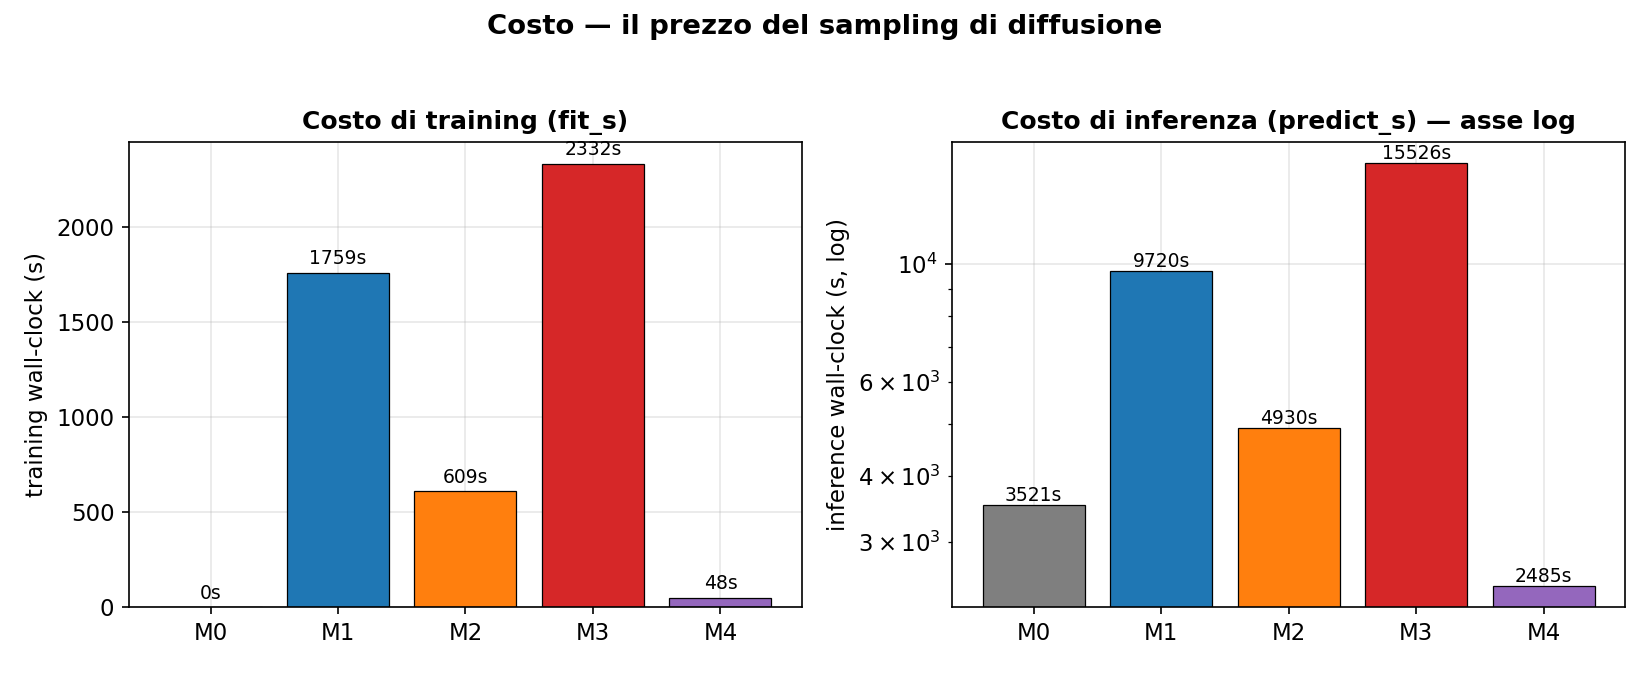
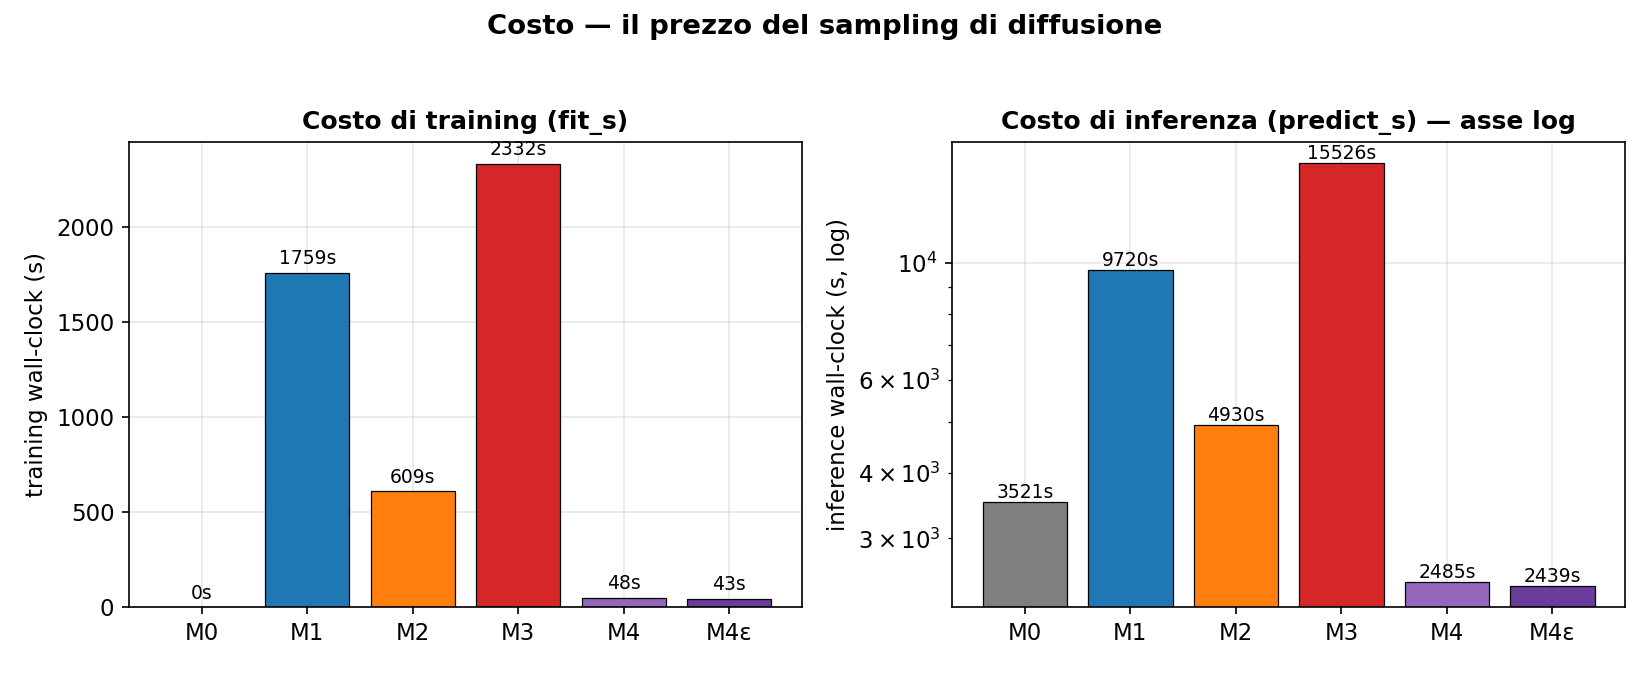
Bank M4ε eps ablation: ε over-disperses (cov≈1), mirror of x0 collapse
The eps-prediction ablation did NOT recalibrate TimeDiff as hypothesized — it
flipped it to the opposite failure. x0 under-disperses (cov 0.003/0.008, bands
≈0); ε over-disperses (cov 0.998/1.000, width50 7686, width90 11359, the widest
on the ladder), degrading the point too (MASE 4.02, CRPS 1376, MAE 1045). The
RMSE/MAE ratio stays uniform (ε 8.97 ≈ x0 8.85 ≈ naive 8.67), so it is uniform
over-dispersion, not a few exploded windows — a real effect, not a sampler bug.

Lesson: no naive parameterization calibrates a non-autoregressive block; x0 is
the lesser evil (the TimeDiff paper's choice); proper calibration needs more
(learned σ_θ or conformal); the best-calibrated model on the ladder is DeepAR,
not a diffusion.

- Bank electricity,timediff_eps row in results/registry.csv
- Regenerate comparison table (M0–M4 incl. M4ε) and the 6 fig_cmp figures
- Fix calibration-figure title to name both extremes (over-confident / under-confident)
- Correct the narrative arc across deck + README: "ε calibrates" -> "ε flips to
  the opposite excess" (SLIDE_TEMPLATE incl. B7 promoted to a full slide-story,
  QA_ORALE incl. new Q34-ter, RESULTS_PLACEHOLDERS, SPEAKER_SCRIPT, FIGURE_PLAN)
- Add P1.11 diagnostic cell to the Colab notebook (visualise the eps over-dispersion)

diff --git a/experiments/plot_presentation.py b/experiments/plot_presentation.py
@@ -222,7 +222,7 @@ def fig_calibration(df: pd.DataFrame, is_ph: bool) -> None:
     ax.set_xticks([0.5, 0.9])
     ax.set_xlabel("copertura nominale (target)")
     ax.set_ylabel("copertura empirica (ottenuta)")
-    ax.set_title("Calibrazione — sotto la diagonale = troppo sicuro")
+    ax.set_title("Calibrazione — sotto la diagonale = troppo sicuro · sopra = troppo incerto")
     ax.legend(loc="lower right", fontsize=8.5, framealpha=0.9)
     ax.set_aspect("equal", adjustable="box")
     _ph_banner(fig, is_ph)

diff --git a/docs/presentation/SLIDE_TEMPLATE_ELECTRICITY_IT.md b/docs/presentation/SLIDE_TEMPLATE_ELECTRICITY_IT.md
@@ -5,7 +5,8 @@
 > [`RESULTS_PLACEHOLDERS_ELECTRICITY.md`](RESULTS_PLACEHOLDERS_ELECTRICITY.md)
 > (fonte di verità). M0–M4 sono **numeri reali** (da `results/registry.csv`).
 > M4 TimeDiff entra nel deck *foldato* nelle slide 5/8/9/10 + backup **B7**
-> (deep-dive collasso x0 → ablazione ε); promuovibile a slide piena quando arriva M4ε.
+> (deep-dive: collasso x0 ↔ esplosione ε, i due estremi della parametrizzazione).
+> M4ε è bancato: B7 è ora una **slide-storia completa** (numeri reali, non più foreshadow).
 >
 > **Legenda "chi parla":** A = problema/dataset/PML · B = modelli/metodo ·
 > C = risultati/interpretazione/limiti. (~2.5–3 min a testa.)
@@ -235,8 +236,8 @@
     puntiforme. Lo approfondiamo in backup (B7) con l'ablazione ε."*
   - Sotto-messaggio onesto: su Electricity **il baseline stagionale è fortissimo**;
     ARIMA per-canale è fragile su 321 serie.
-- **Figura:** `fig_cmp_crps.png` (barre CRPS, M3/M4 reali) +
-  `fig_cmp_mase.png` come backup.
+- **Figura:** `fig_cmp_crps.png` (barre CRPS, M3/M4 reali; la barra **M4ε** è l'ablazione
+  ε — la più alta = la peggiore, dettaglio in B7) + `fig_cmp_mase.png` come backup.
 - **Speaker notes (C, ~70s):** "Ecco i numeri su Electricity. La prima cosa che salta
   all'occhio: il seasonal-naive ha CRPS 160 e MASE uno — è la *barra da battere*.
   ARIMA, montato un modello per canale su 321 serie, è fragile e va malissimo. DeepAR
@@ -268,7 +269,8 @@
   - Frase chiave: *"Non basta vincere sul CRPS: bisogna vincere abbastanza da
     giustificare il costo di sampling — e la velocità da sola non vale se l'incertezza
     è rotta."*
-- **Figura:** `fig_cmp_quality_cost.png` (scatter; M3 e M4 punti reali).
+- **Figura:** `fig_cmp_quality_cost.png` (scatter; M3 e M4 punti reali; **M4ε** in alto a
+  sinistra = il più economico ma il peggiore: la prova plastica che "cheap ≠ good").
 - **Speaker notes (C, ~70s):** "Questo è il grafico che riassume la nostra tesi.
   Sull'asse orizzontale il costo di campionamento, sul verticale la qualità
   probabilistica: l'ideale è l'angolo in basso a sinistra, economico e accurato. Il
@@ -301,13 +303,15 @@
   - **Esito M4 — il design conta:** *"TimeDiff, non-autoregressivo, è ~6× più rapido in
     sampling di TimeGrad e dà la MAE più bassa tra i deep, ma in x0-prediction la sua
     distribuzione collassa (cov ≈ 0, CRPS ≈ MAE). Non è un bug del sampler: è la
-    parametrizzazione del target. L'ablazione ε (M4ε) testa se predire il rumore
-    ricalibra."* Lezione: **la scelta x0 vs ε cambia la calibrazione a parità di tutto.**
+    parametrizzazione del target. L'ablazione ε (M4ε) lo conferma per assurdo: predire il
+    rumore **non** ricalibra, ribalta nell'estremo opposto (cov ≈ 1, bande enormi, MASE 4.0)."*
+    Lezione: **x0 ed ε sono i due estremi (sotto/sovra-confidente); la calibrazione vera
+    non è uno switch di parametrizzazione.**
   - **Limiti:** split non-benchmark (E0); ARIMA per-canale poco competitivo; sampling
     di diffusione costoso (M3); un solo seed; niente tuning esteso degli iperparametri.
-  - **Lavori futuri:** ablazione **ε-prediction** (M4ε, in corso) per ricalibrare
-    TimeDiff; split `electricity_nips` per confronto con la letteratura; CSDI;
-    riduzione passi di sampling (DDIM-like); più seed.
+  - **Lavori futuri:** calibrare davvero TimeDiff oltre lo switch x0/ε (varianza appresa
+    σ_θ, o calibrazione post-hoc tipo conformal); split `electricity_nips` per confronto
+    con la letteratura; CSDI; riduzione passi di sampling (DDIM-like); più seed.
 - **Figura:** richiamo a `fig_cmp_quality_cost.png` (la stessa) o nessuna.
 - **Speaker notes (C, ~55s):** "In sintesi: il nostro messaggio non è che la
   diffusione vince, ma che esiste un compromesso tra espressività, calibrazione e
@@ -317,7 +321,8 @@
   diffusion model con design opposto: TimeDiff, non-autoregressivo, ribalta il costo —
   sei volte più rapido — ma in questa parametrizzazione rompe la calibrazione. È la
   prova che a contare è il *design*, non solo la taglia; e la nostra ablazione sul modo
-  di predire — il segnale pulito contro il rumore — serve proprio a ricalibrarlo. Siamo
+  di predire — segnale pulito contro rumore — mostra che nessuno dei due estremi è
+  calibrato: x0 azzera l'incertezza, ε la gonfia. Siamo
   onesti sui limiti: split non-benchmark, ARIMA poco competitivo, sampling costoso, un
   solo seed. Lavori futuri: l'ablazione ε, lo split standard, CSDI. Grazie."
 - **Chi parla:** C
@@ -347,18 +352,23 @@
 - **B6 — DeepAR senza time-features (M2 ablation):** se presente in registry
   (`deepar_notf`), mostra l'effetto delle covariate calendario. *Uso:* domanda su
   ablation. 🟡 solo se la riga esiste.
-- **B7 — M4 TimeDiff: il collasso di varianza e l'ablazione ε:** la slide-storia del
-  doppio volto di TimeDiff. *Contenuto:* (1) cos'è il non-AR (denoisa l'intero blocco
-  τ×D in una catena, da cui la velocità); (2) il collasso — cov 0.003/0.008, width ≈ 0,
-  **CRPS ≈ MAE** = massa puntiforme; (3) **perché**: in x0-prediction la rete predice
-  un x0 quasi costante appoggiandosi al contesto/`x_ar` e ignora il rumore `x_t`;
-  l'unica varianza residua è `1−ᾱ_0 ≈ 6·10⁻⁴` → std ≈ 0 (la *future-mixup* aggrava);
-  (4) **la cura**: ε-prediction (DDPM, Ho 2020) controlla esplicitamente la dispersione
-  iniettata → M4ε dovrebbe ricalibrare. *Figure:* `fig_cmp_calibration.png` (M4 piatto
-  sull'asse) + `fig_cmp_intervals.png` (width 2.8/6.6). *Uso:* "perché TimeDiff ha
-  coverage zero?" / "qual è la differenza tra i due diffusion model?".
-  ✅ x0 reale; 🟡 riga M4ε in arrivo (numeri al posto del foreshadow). Dettaglio
-  numerico in `RESULTS_PLACEHOLDERS_ELECTRICITY.md` §5.
+- **B7 — M4 TimeDiff: i due volti della parametrizzazione (x0 vs ε)** ⭐ slide-storia:
+  *Contenuto:* (1) cos'è il non-AR (denoisa l'intero blocco τ×D in una catena, da cui la
+  velocità); (2) **x0 collassa** — cov 0.003/0.008, width ≈ 0, **CRPS ≈ MAE** = massa
+  puntiforme; **perché**: in x0-prediction la rete predice un x0 quasi costante
+  appoggiandosi al contesto/`x_ar` e ignora il rumore `x_t`; l'unica varianza residua è
+  `1−ᾱ_0 ≈ 6·10⁻⁴` → std ≈ 0 (la *future-mixup* aggrava); (3) **la presunta cura, ε,
+  ribalta**: ε-prediction (DDPM, Ho 2020) lega la dispersione allo schedule → ci
+  aspettavamo la ricalibrazione, invece M4ε **sovra-disperde** (cov50 **0.998**, cov90
+  **1.000**, width50 **7 686**, width90 **11 359** — le bande più larghe della scala — e
+  MASE **4.02**); (4) **la lezione**: x0 ed ε sono i due estremi (sotto/sovra-confidente),
+  x0 è il male minore (la scelta del paper TimeDiff), e la calibrazione vera richiede di
+  più (σ_θ appresa, o conformal). Bonus: il meglio calibrato della scala è **DeepAR**, non
+  una diffusione. *Figure:* `fig_cmp_calibration.png` (i due viola agli estremi: M4 sul
+  pavimento, M4ε sul soffitto) + `fig_cmp_intervals.png` (width 2.8/6.6 vs 7 686/11 359).
+  *Uso:* "perché TimeDiff ha coverage zero?" / "l'ablazione ε ha funzionato?" / "qual è la
+  differenza tra i due diffusion model?". ✅ M4 x0 **e** M4ε reali. Dettaglio numerico in
+  `RESULTS_PLACEHOLDERS_ELECTRICITY.md` §5.
 
 ---
 
@@ -377,7 +387,7 @@
 | 9 | `fig_cmp_quality_cost.png` | ✅ M3/M4 reali |
 | 10 | richiamo S9 | ✅ |
 | B1 | `fig_cmp_calibration.png`, `fig_cmp_intervals.png` | ✅ M3/M4 reali |
-| B7 | `fig_cmp_calibration.png`, `fig_cmp_intervals.png` | ✅ M4 x0 · 🟡 M4ε |
+| B7 | `fig_cmp_calibration.png`, `fig_cmp_intervals.png` | ✅ M4 x0 **e** M4ε reali |
 
 > Dettaglio completo delle figure in
 > [`FIGURE_PLAN_ELECTRICITY_IT.md`](FIGURE_PLAN_ELECTRICITY_IT.md).

diff --git a/README.md b/README.md
@@ -39,7 +39,7 @@ Our thesis is deliberately non-triumphalist: diffusion buys *richer, better-cali
 | **Exchange** (D=8, sandbox) | ✅ | ✅ | ✅ | ✅ | — |
 | **Electricity** (D=321, primary) | ✅ | ✅ | ✅ | ✅ | ✅ |
 
-**Headline (Electricity, CRPS ↓ — the probabilistic-quality metric):** the seasonal-naive bar is **160.5**, and *no trained model beats it* — DeepAR 253.7, **TimeGrad 241.6** (better than DeepAR, but not the naive), **TimeDiff 287.3**, ARIMA 867.5. This is the project's honest, non-triumphalist finding: on a strongly seasonal signal a simple baseline is a serious opponent, and diffusion's richer uncertainty does not pay for its sampling cost *here*. The two diffusion models make the point from opposite ends: **M3 TimeGrad** (autoregressive) is the better-calibrated but slow one (~4 h to sample), while **M4 TimeDiff** (non-autoregressive) samples in ~41 min and has the lowest point error of any deep model, yet in its x0-prediction form the predictive **collapses** (coverage ≈ 0, CRPS ≈ MAE) — an ε-prediction ablation to recalibrate it is in progress.
+**Headline (Electricity, CRPS ↓ — the probabilistic-quality metric):** the seasonal-naive bar is **160.5**, and *no trained model beats it* — DeepAR 253.7, **TimeGrad 241.6** (better than DeepAR, but not the naive), **TimeDiff 287.3**, ARIMA 867.5. This is the project's honest, non-triumphalist finding: on a strongly seasonal signal a simple baseline is a serious opponent, and diffusion's richer uncertainty does not pay for its sampling cost *here*. The two diffusion models make the point from opposite ends: **M3 TimeGrad** (autoregressive) is the better-calibrated but slow one (~4 h to sample), while **M4 TimeDiff** (non-autoregressive) samples in ~41 min and has the lowest point error of any deep model, yet in its x0-prediction form the predictive **collapses** (coverage ≈ 0, CRPS ≈ MAE). Our ε-prediction ablation does **not** recalibrate it — it flips TimeDiff to the opposite failure (coverage ≈ 1, intervals ~40× wider, MASE 4.0): x0 under-disperses, ε over-disperses, and proper calibration needs more than a parameterization swap. The best-calibrated model on the whole ladder is **DeepAR**, not a diffusion.
 
 **Experiments:** `E1` main comparison ✅ · `E6` economic value ✅ · `E2` horizon sweep / `E3` denoising-steps 🟡 in progress · `E0` reproduce-gate, `E4` regime-shift ⏳ planned.
 
@@ -160,6 +160,6 @@ Released under the [MIT License](LICENSE). If your university's coursework polic
 
 **Idea.** Inquadriamo il forecasting come l'apprendimento della distribuzione generativa condizionata `p(futuro | passato)` e la realizziamo con un diffusion model condizionato, addestrato con lo stesso obiettivo (ELBO / predizione del rumore) che il corso ricava nell'ultimo capitolo. Lo confrontiamo con una baseline ingenua, un modello classico (ARIMA/ETS) e un modello probabilistico di deep learning (DeepAR), misurando **quattro** cose: **accuratezza puntuale** (MAE/RMSE/MASE), **qualità probabilistica** (CRPS, copertura, calibrazione), **costo** e **valore economico** — il denaro risparmiato quando il forecast di ciascun modello programma una batteria contro un prezzo a fasce orarie (esperimento E6, un modulo *sopra i forecast già prodotti*, senza addestramento aggiuntivo).
 
-**Stato:** 🟢 pipeline completa, risultati in cassaforte. La scala gira su entrambi i dataset (M0→M3 su ciascuno; il quinto gradino, **M4 TimeDiff**, sul dataset principale Electricity); tabelle e figure di confronto sono **generate dalla registry** (mai scritte a mano); il pilastro del valore economico (E6) è costruito. **Risultato chiave (Electricity, CRPS):** la barra del seasonal-naive è **160.5** e **nessun modello addestrato la batte** — DeepAR 253.7, **TimeGrad 241.6** (meglio di DeepAR, non del naive), **TimeDiff 287.3**, ARIMA 867.5. Finding onesto e non-trionfalista: su un segnale fortemente stagionale una baseline semplice è un avversario serio. I due diffusion model lo mostrano da estremi opposti: **M3 TimeGrad** (autoregressivo) è il più calibrato ma lento (~4h di sampling), mentre **M4 TimeDiff** (non-autoregressivo) campiona in ~41 min ed ha l'errore puntuale più basso tra i deep, ma nella forma x0 la predittiva **collassa** (copertura ≈ 0, CRPS ≈ MAE) — un'ablazione ε per ricalibrarla è in corso. Il deck di presentazione (8 minuti, FASE B) è in [`docs/presentation/`](docs/presentation/); il piano completo in [`docs/IMPLEMENTATION_PLAN_IT.md`](docs/IMPLEMENTATION_PLAN_IT.md).
+**Stato:** 🟢 pipeline completa, risultati in cassaforte. La scala gira su entrambi i dataset (M0→M3 su ciascuno; il quinto gradino, **M4 TimeDiff**, sul dataset principale Electricity); tabelle e figure di confronto sono **generate dalla registry** (mai scritte a mano); il pilastro del valore economico (E6) è costruito. **Risultato chiave (Electricity, CRPS):** la barra del seasonal-naive è **160.5** e **nessun modello addestrato la batte** — DeepAR 253.7, **TimeGrad 241.6** (meglio di DeepAR, non del naive), **TimeDiff 287.3**, ARIMA 867.5. Finding onesto e non-trionfalista: su un segnale fortemente stagionale una baseline semplice è un avversario serio. I due diffusion model lo mostrano da estremi opposti: **M3 TimeGrad** (autoregressivo) è il più calibrato ma lento (~4h di sampling), mentre **M4 TimeDiff** (non-autoregressivo) campiona in ~41 min ed ha l'errore puntuale più basso tra i deep, ma nella forma x0 la predittiva **collassa** (copertura ≈ 0, CRPS ≈ MAE). La nostra ablazione ε **non** la ricalibra: ribalta TimeDiff nell'estremo opposto (copertura ≈ 1, bande ~40× più larghe, MASE 4.0) — x0 sotto-disperde, ε sovra-disperde, e calibrare richiede più di uno switch di parametrizzazione. Il modello meglio calibrato dell'intera scala è **DeepAR**, non una diffusione. Il deck di presentazione (8 minuti, FASE B) è in [`docs/presentation/`](docs/presentation/); il piano completo in [`docs/IMPLEMENTATION_PLAN_IT.md`](docs/IMPLEMENTATION_PLAN_IT.md).
 
 **Per i colleghi:** leggete prima il piano (Parti 1–3), poi la parte del vostro ruolo (A / B / C, vedi tabella sopra). La regola d'oro: far girare tutta la pipeline sul piccolo dataset **Exchange** prima di salire di scala.

diff --git a/docs/presentation/QA_ORALE_ELECTRICITY_IT.md b/docs/presentation/QA_ORALE_ELECTRICITY_IT.md
@@ -69,8 +69,10 @@ TimeDiff invece predice il **segnale pulito** (x0-prediction), ed è proprio que
 che fa collassare la sua incertezza (vedi Q16-bis e Q34-bis). Predire ε controlla
 *esplicitamente* la dispersione iniettata a ogni passo; predire x0 la lascia residuale, e
 se la rete impara a predire un x0 quasi costante quella dispersione svanisce. La nostra
-ablazione **M4ε** verifica proprio questo: stesso modello, target ε invece di x0 → la
-calibrazione dovrebbe tornare.
+ablazione **M4ε** lo verifica — ma con un esito **inatteso**: predire ε **non** ricalibra
+TimeDiff, lo **ribalta** nell'estremo opposto (cov 0.998/1.000, bande ~7700/11360, MASE 4.02).
+Nessuna delle due parametrizzazioni naive (x0 *o* ε) è calibrata sul blocco non-autoregressivo;
+il paper TimeDiff sceglie x0 come male minore. Dettaglio completo in Q34-ter.
 
 **Q9. Come si condiziona TimeGrad sul passato?**
 Una RNN comprime la finestra di contesto H in uno stato; quello stato entra come
@@ -91,7 +93,7 @@ sequenza, ~4h19). **TimeDiff è non-autoregressivo**: denoisa l'**intero blocco 
 (τ×D) in *una sola* catena inversa, con un backbone convoluzionale e un'inizializzazione
 lineare del futuro (`x_ar`). Risultato: sampling molto più rapido (~41 min). Inoltre
 TimeGrad usa ε-prediction, TimeDiff x0-prediction — differenza che spiega la calibrazione
-opposta (vedi Q8, Q16-bis).
+opposta (vedi Q8, Q34-bis, Q34-ter).
 
 **Q11. Perché ARIMA è "un modello per canale"?**
 ARIMA è univariato: con 321 serie alleniamo 321 modelli auto-ARIMA indipendenti. Questo
@@ -249,8 +251,23 @@ ingresso; così l'unica varianza residua nella catena inversa è quella dell'ult
 `1−ᾱ_0 ≈ 6·10⁻⁴`, cioè ≈ 0. La future-mixup (che in training mescola il futuro vero nel
 condizionamento) lo aggrava. Lo abbiamo **verificato numericamente** (simulazione della
 ricorsione di varianza) e con la spia indipendente CRPS ≈ MAE. La cura è la formulazione
-DDPM standard, ε-prediction: la nostra ablazione **M4ε** la testa. Quindi non è un bug del
-sampler — la matematica DDIM è corretta — ma una proprietà della parametrizzazione.
+DDPM standard, ε-prediction: la nostra ablazione **M4ε** la testa — e il verdetto è in
+Q34-ter (ε **non** cura, ribalta). Quindi non è un bug del sampler — la matematica DDIM è
+corretta — ma una proprietà della parametrizzazione.
+
+**Q34-ter. "E l'ablazione ε ha funzionato? Ha ricalibrato TimeDiff?"**
+No — ed è il risultato più interessante. Predire ε **non** ricalibra: **ribalta** TimeDiff
+dall'estremo della sotto-dispersione (cov 0.003/0.008, bande ≈ 0) a quello opposto della
+**sovra-dispersione** (cov **0.998/1.000**, width50 ≈ 7686, width90 ≈ 11359 — le bande più
+larghe di tutta la scala), e degrada anche il punto (MASE **4.02** vs 1.40, MAE 1045 vs 288,
+CRPS 1376 vs 287). Non è un bug: il rapporto RMSE/MAE resta uniforme (ε 8.97 ≈ x0 8.85 ≈
+naive 8.67), quindi è sovra-dispersione *uniforme*, non qualche finestra esplosa; le formule
+sono i DDPM da manuale. Il meccanismo: senza ancoraggio autoregressivo, il blocco non-AR
+sparge la varianza iniettata da ε su tutte le τ×D celle senza ricomporla → varianza fuori
+controllo. Lettura onesta: **nessuna parametrizzazione naive calibra** un blocco non-AR; x0
+è il **male minore** (la scelta del paper TimeDiff); calibrare davvero richiede di più
+(varianza appresa σ_θ, o conformal). E il meglio calibrato dell'intera scala **non** è una
+diffusione: è **DeepAR** (cov 0.466/0.831).
 
 **Q35. "Perché dovrei fidarmi della calibrazione con un solo seed e split non standard?"**
 Non chiediamo fiducia assoluta: presentiamo coverage **e** width insieme, dichiariamo i
@@ -270,7 +287,8 @@ qualità-probabilistica ↔ costo invece di dichiarare un vincitore.
 - Numeri M4 (a memoria): CRPS **287.3**, MASE **1.40**, MAE **288.5** (la più bassa tra i
   deep), cov **0.003 / 0.008**; il più veloce (fit ~48 s, predict ~41 min). Frase-gancio:
   *"punto nitido, distribuzione collassata; CRPS ≈ MAE = massa puntiforme; colpa della
-  x0-prediction, l'ablazione ε la corregge."*
+  x0-prediction — e l'ablazione ε non la corregge: la ribalta (cov ≈ 1). x0 ed ε = i due
+  estremi opposti, nessuno calibrato."*
 - Tenere pronte le slide **backup B1–B7** (calibrazione, tabella completa, perché ARIMA va
   male, math della diffusione, Exchange, ablation DeepAR, **B7 = TimeDiff & ablazione ε**) →
   mappa in [`SLIDE_TEMPLATE_ELECTRICITY_IT.md`](SLIDE_TEMPLATE_ELECTRICITY_IT.md).

diff --git a/docs/presentation/FIGURE_PLAN_ELECTRICITY_IT.md b/docs/presentation/FIGURE_PLAN_ELECTRICITY_IT.md
@@ -78,9 +78,9 @@
   economica dei deep) ma il più in alto — il non-AR compra velocità, non qualità.
 - **Stato:** ✅ generata con M3/M4 reali.
 
-### 4. `fig_cmp_calibration.png` — calibrazione (backup B1, B7) ⭐ M4
+### 4. `fig_cmp_calibration.png` — calibrazione (backup B1, B7) ⭐ M4 vs M4ε
 - **Cosa mostra:** reliability plot — per ogni modello cov50 e cov90 vs i nominali 0.50 e
-  0.90; sotto la diagonale = troppo sicuro. **Il pavimento degli assi è dinamico:** se un
+  0.90; sotto la diagonale = troppo sicuro, sopra = troppo incerto. **Il pavimento degli assi è dinamico:** se un
   modello collassa verso zero (M4), si allarga a 0 per renderlo visibile, altrimenti resta
   al framing stretto 0.4 (Exchange).
 - **Perché:** risponde a "come fai a dire che è calibrato?"; è la figura-chiave di B7.
@@ -89,7 +89,10 @@
   troppo strette).
 - **M4:** cov50 **0.003**, cov90 **0.008** — la linea viola è **schiacciata sull'asse**:
   l'esempio da manuale di overconfidence (distribuzione collassata).
-- **Stato:** ✅ generata con M3/M4 reali.
+- **M4ε:** cov50 **0.998**, cov90 **1.000** — la seconda linea viola è **inchiodata al
+  soffitto**: l'ablazione ε ribalta M4 nell'estremo opposto (sovra-dispersione). Le due
+  viola agli estremi opposti del grafico *sono* la storia di B7.
+- **Stato:** ✅ generata con M3/M4/M4ε reali.
 
 ### 5. `fig_cmp_intervals.png` — copertura + ampiezza bande / sharpness (backup B1, B7)
 - **Cosa mostra:** due pannelli — copertura (cov50/cov90 vs nominale) e sharpness
@@ -102,7 +105,10 @@
   fig. 4 è coerente).
 - **M4:** width50 **≈ 2.8**, width90 **≈ 6.6** — bande **quasi nulle**: copertura ≈ 0 e
   ampiezza ≈ 0 insieme = intervalli collassati (non bande larghe mal piazzate).
-- **Stato:** ✅ generata con M3/M4 reali.
+- **M4ε:** width50 **≈ 7686**, width90 **≈ 11359** — **le bande più larghe della scala**
+  (più larghe persino di ARIMA): copertura ≈ 1 e ampiezza enorme insieme = sovra-dispersione,
+  lo specchio esatto di M4.
+- **Stato:** ✅ generata con M3/M4/M4ε reali.
 
 ### 6. `fig_cmp_cost.png` — costi fit/predict (supplemento S9)
 - **Cosa mostra:** barre dei tempi `fit_s` e `predict_s` per modello (scala log).

diff --git a/docs/presentation/RESULTS_PLACEHOLDERS_ELECTRICITY.md b/docs/presentation/RESULTS_PLACEHOLDERS_ELECTRICITY.md
@@ -46,10 +46,16 @@ che denoisa l'intero blocco futuro (τ×D) in una sola catena inversa. Due fatti
 > basso, ma la sua incertezza è rotta: gli intervalli collassano a zero. È l'esempio da
 > manuale di overconfidence — e la ragione per cui la parametrizzazione conta."*
 
-**Ablazione pianificata (M4ε, eps-prediction):** rieseguiamo TimeDiff predicendo il
-**rumore** ε invece del segnale pulito x0 (DDPM standard, Ho 2020). Tesi: predire ε
-controlla esplicitamente la varianza iniettata e dovrebbe **ricalibrare** gli intervalli.
-Il report racconta l'arco *"x0 collassa → ecco perché (varianza) → ε lo calibra"*.
+**Ablazione M4ε (eps-prediction) — fatta:** abbiamo rieseguito TimeDiff predicendo il
+**rumore** ε invece del segnale pulito x0 (DDPM standard, Ho 2020). Tesi iniziale: ε
+controlla esplicitamente la varianza iniettata e dovrebbe **ricalibrare**. **Esito reale:
+ε non ricalibra, ribalta.** TimeDiff passa dalla sotto-dispersione (cov 0.003/0.008) alla
+**sovra-dispersione** estrema: cov **0.998/1.000**, width50 **7686**, width90 **11359** (le
+bande più larghe della scala), e il punto degrada — MASE **4.02** (vs 1.40), CRPS **1376**
+(vs 287), MAE **1045** (vs 288). Spia di consistenza: RMSE/MAE resta uniforme (ε 8.97 ≈ x0
+8.85 ≈ naive 8.67) → sovra-dispersione *uniforme*, non finestre esplose: effetto reale, non
+bug. Arco rivisto: *"x0 collassa → varianza residua → ε ribalta nell'eccesso opposto: la
+calibrazione non è uno switch di parametrizzazione."*
 
 ### Tempi di inferenza in secondi (per lo scatter qualità/costo)
 

diff --git a/results/tables/comparison_electricity.md b/results/tables/comparison_electricity.md
@@ -13,6 +13,7 @@ _test split · n_windows=5071 · H=168 · τ=24 · D=321 · S=100 · seed=42 · 
 | M2 DeepAR | 1.830 | 253.7 | 133.9 | 0.466 | 0.831 | 356.0 | 2,448.8 |
 | M3 TimeGrad | 1.391 | 241.6 | 126.6 | 0.279 | 0.647 | 312.8 | 3,025.3 |
 | M4 TimeDiff | 1.399 | 287.3 | 143.8 | 0.003 | 0.008 | 288.5 | 2,551.5 |
+| M4ε TimeDiff (ε) | 4.017 | 1,376.3 | 729.0 | 0.998 | 1.000 | 1,044.8 | 9,370.4 |
 
 **Barra da battere (CRPS):** M0 = 160.5 — il riferimento di persistenza che i modelli deep (e in particolare M3) devono superare. _Grassetto = miglior modello per colonna; coverage premia la vicinanza al nominale (0.50 / 0.90), non il valore più alto._
 
@@ -24,6 +25,7 @@ _test split · n_windows=5071 · H=168 · τ=24 · D=321 · S=100 · seed=42 · 
 | M1 ARIMA | 1,758.5 | 9,719.5 | — | — | macOS (locale) |
 | M2 DeepAR | 608.8 | 4,930.0 | 50 | — | Linux (Colab) |
 | M3 TimeGrad | 2,331.9 | 15,526.0 | 50 | 100 | Linux (Colab) |
-| M4 TimeDiff | **48.0** | **2,484.7** | 50 | 100 | Linux (Colab) |
+| M4 TimeDiff | 48.0 | 2,484.7 | 50 | 100 | Linux (Colab) |
+| M4ε TimeDiff (ε) | **43.3** | **2,439.2** | 50 | 100 | Linux (Colab) |
 
 _MASE/CRPS dipendono da scala e denominatore del dataset: **confrontabili solo entro lo stesso dataset**, mai tra Exchange ed Electricity._

diff --git a/docs/presentation/SPEAKER_SCRIPT_8_MIN_IT.md b/docs/presentation/SPEAKER_SCRIPT_8_MIN_IT.md
@@ -149,9 +149,12 @@ l'incertezza rotta. La lezione è che conta il *come*, non solo la taglia.
 Sui limiti siamo trasparenti: lo split non è quello del benchmark pubblicato, quindi
 non ci confrontiamo con la letteratura; ARIMA per-canale è poco competitivo per
 costruzione; il sampling di diffusione è costoso per TimeGrad; e abbiamo usato un solo
-seed, senza tuning esteso. Da qui i lavori futuri: un'ablazione su TimeDiff che predice
-il rumore invece del segnale, per ricalibrarlo; adottare lo split standard
-`electricity_nips` per il confronto con i numeri pubblicati; provare CSDI; e ridurre i
+seed, senza tuning esteso. L'ablazione che avevamo in programma su TimeDiff — predire il
+rumore invece del segnale — l'abbiamo fatta, e il risultato è istruttivo: predire ε **non**
+lo ricalibra, lo ribalta nell'estremo opposto, da incertezza azzerata a incertezza gonfiata.
+Restano quindi i lavori futuri veri: calibrare TimeDiff oltre lo switch x0/ε (varianza
+appresa o conformal); adottare lo split standard `electricity_nips` per il confronto con i
+numeri pubblicati; provare CSDI; e ridurre i
 passi di campionamento con uno schema tipo DDIM. Vi ringraziamo, e siamo a disposizione
 per le domande."
 
